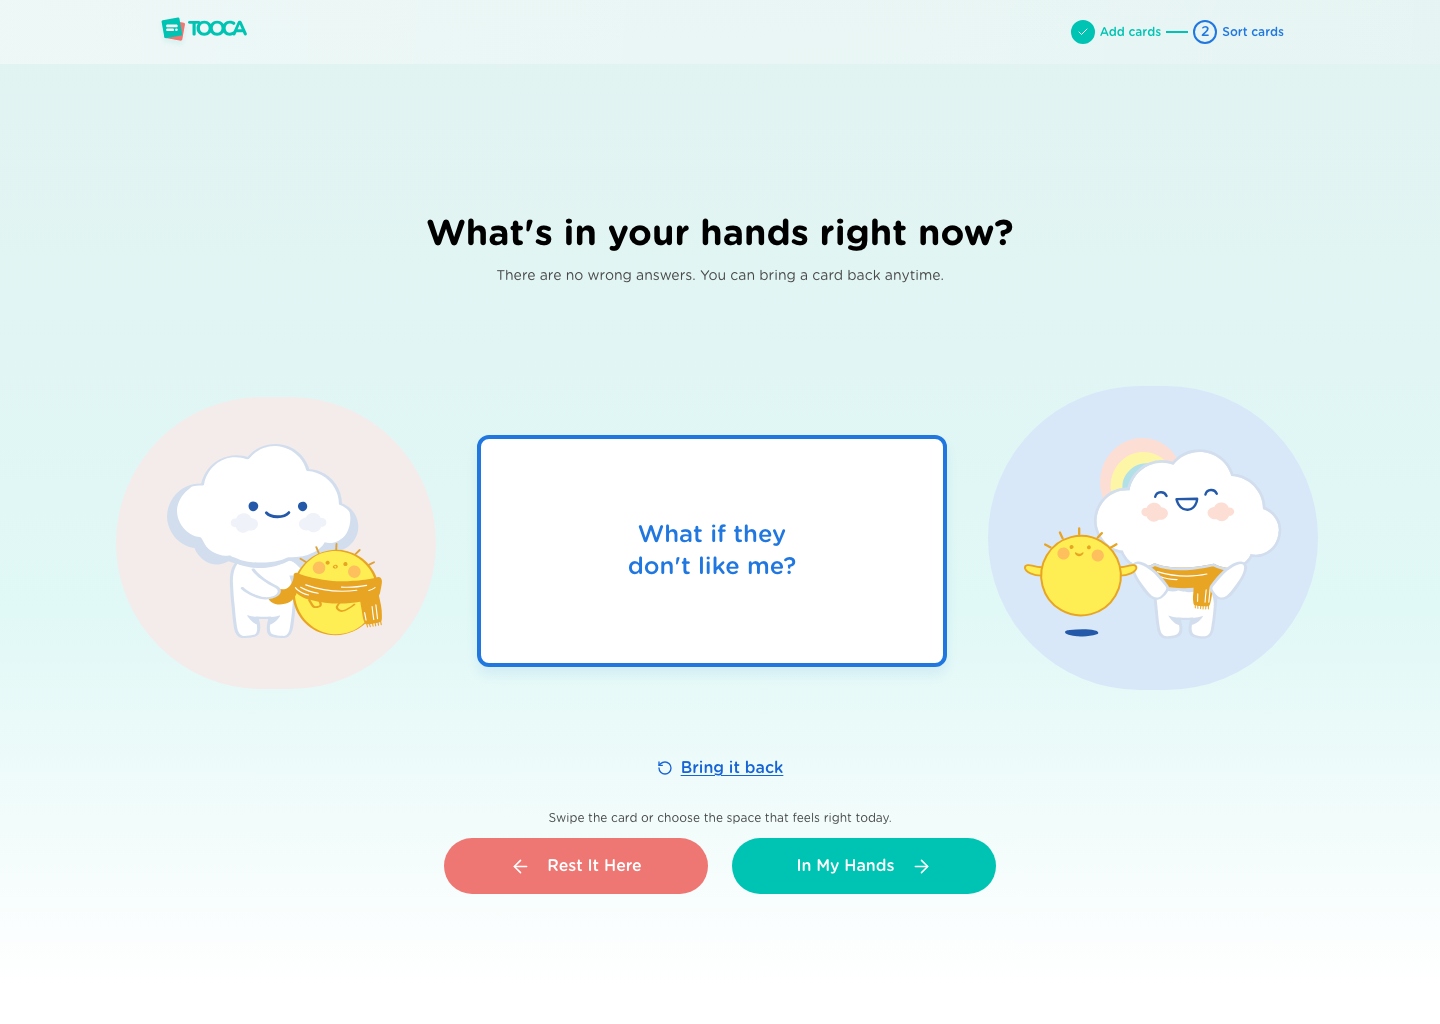
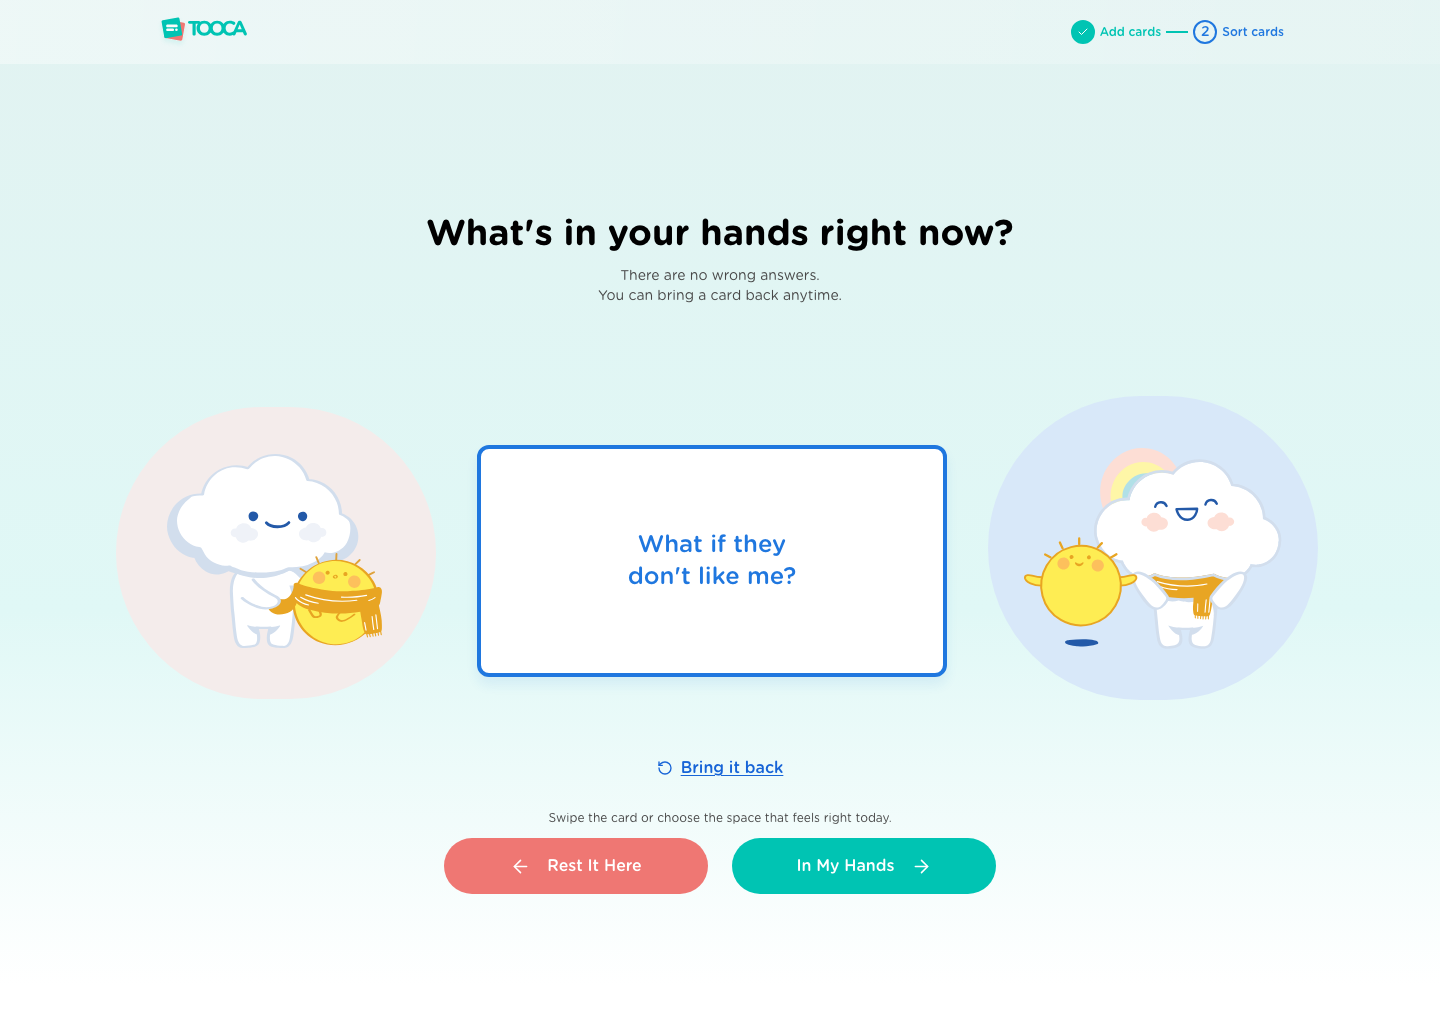
test: refresh sort QA evidence

diff --git a/design-qa.md b/design-qa.md
@@ -2,7 +2,7 @@
 
 [← README](README.md) · [Product](docs/product.md) · [Development & verification](docs/development.md)
 
-This report records visual and interaction review evidence. The current capture set was refreshed on 4 October 2026 after the independent TOOCA two-card logo and favicon replaced the earlier identity assets. Older comparison captures remain in the repository as process history; they are not evidence of the current identity.
+This report records visual and interaction review evidence. The current capture set was refreshed on 5 October 2026 at revision `9c32d2c` after the Sort subtitle display update. Older comparison captures remain in the repository as process history; they are not evidence of the current implementation.
 
 ## Review overview
 
